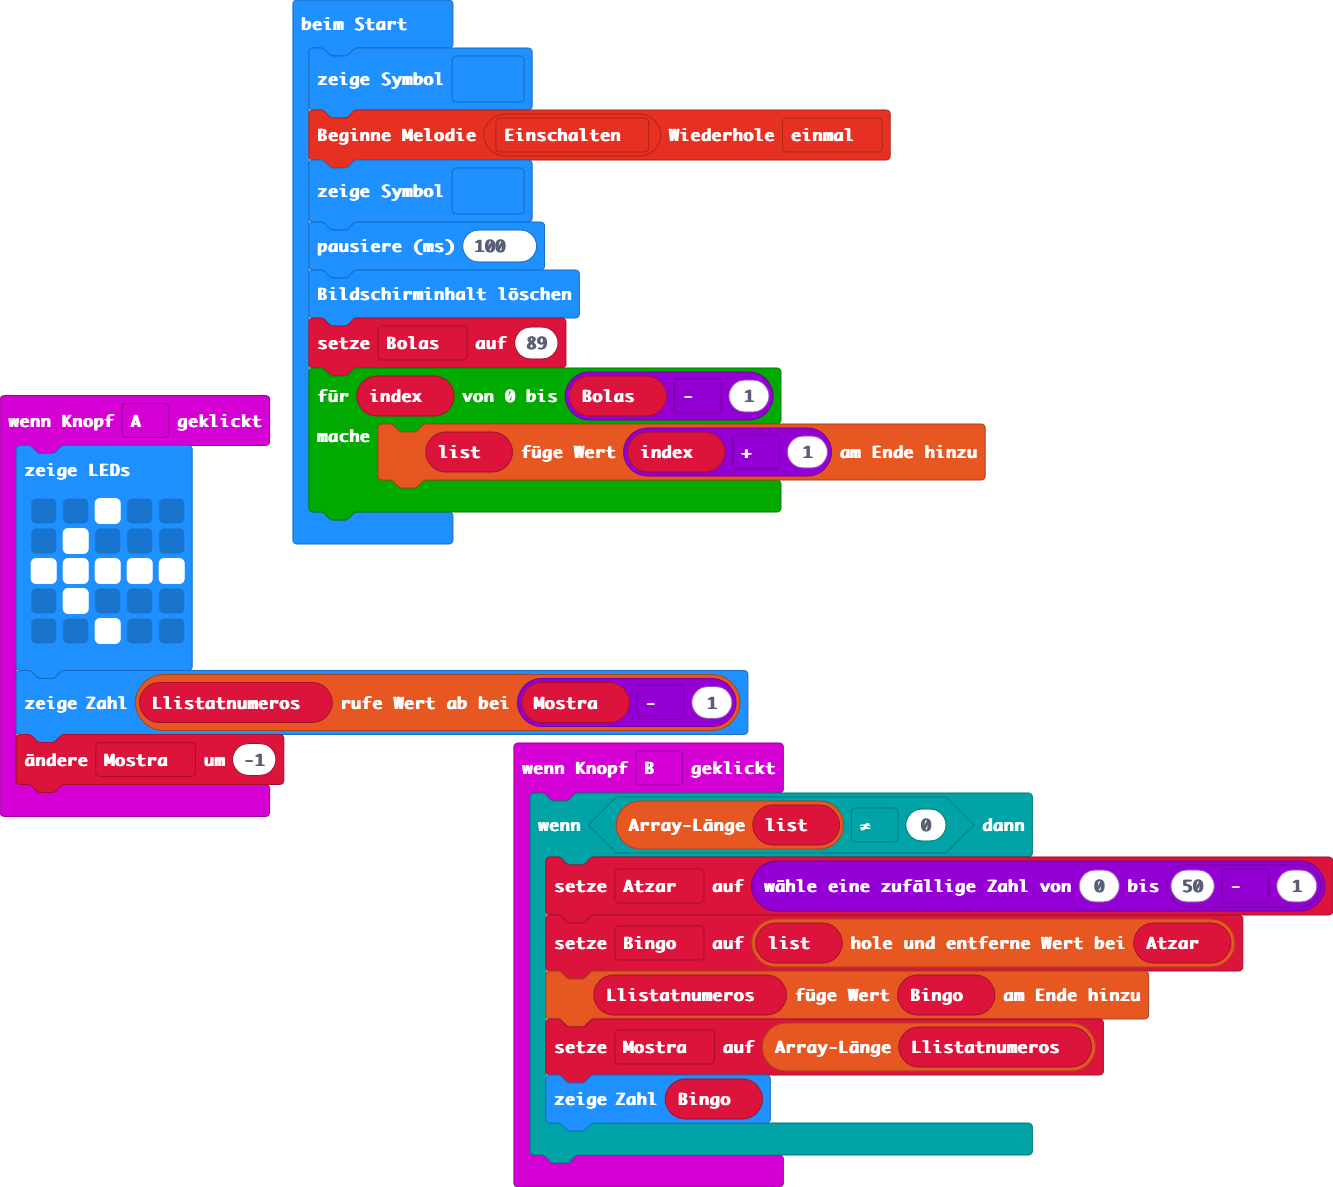
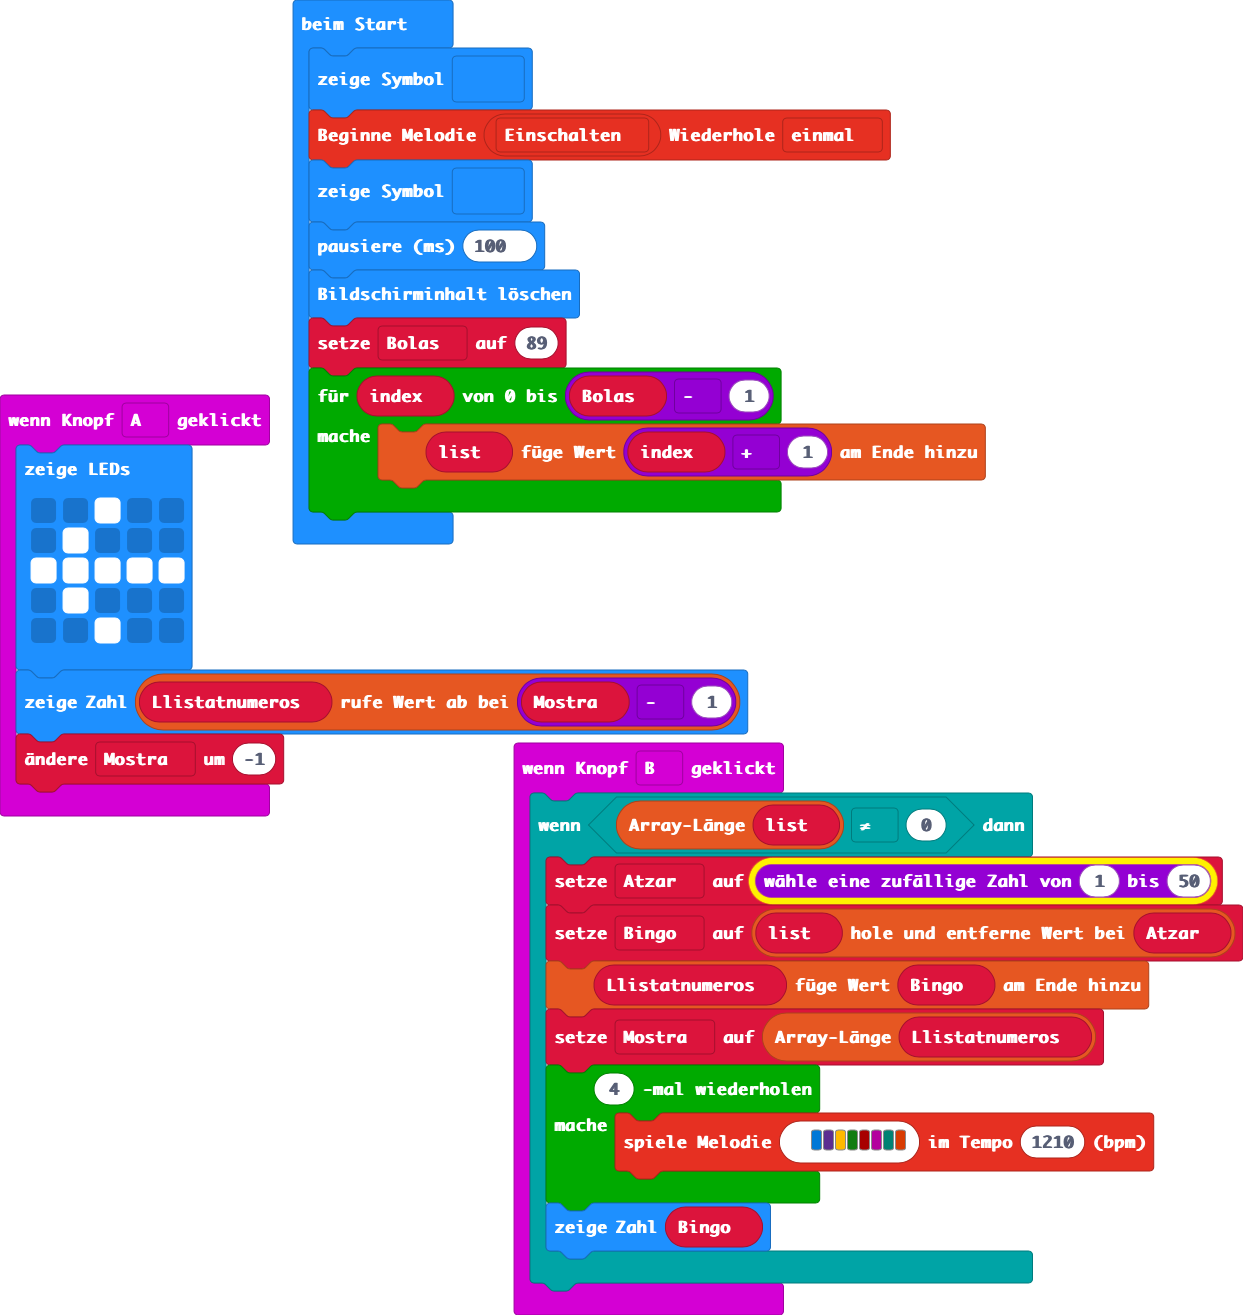
Aktualisiere main.blocks, main.ts

diff --git a/main.ts b/main.ts
@@ -11,10 +11,13 @@ input.onButtonPressed(Button.A, function () {
 })
 input.onButtonPressed(Button.B, function () {
     if (list.length != 0) {
-        Atzar = randint(0, 50 - 1)
+        Atzar = randint(1, 50)
         Bingo = list.removeAt(Atzar)
         Llistatnumeros.push(Bingo)
         Mostra = Llistatnumeros.length
+        for (let index = 0; index < 4; index++) {
+            music.playMelody("E D A G C5 C F B ", 1210)
+        }
         basic.showNumber(Bingo)
     }
 })
